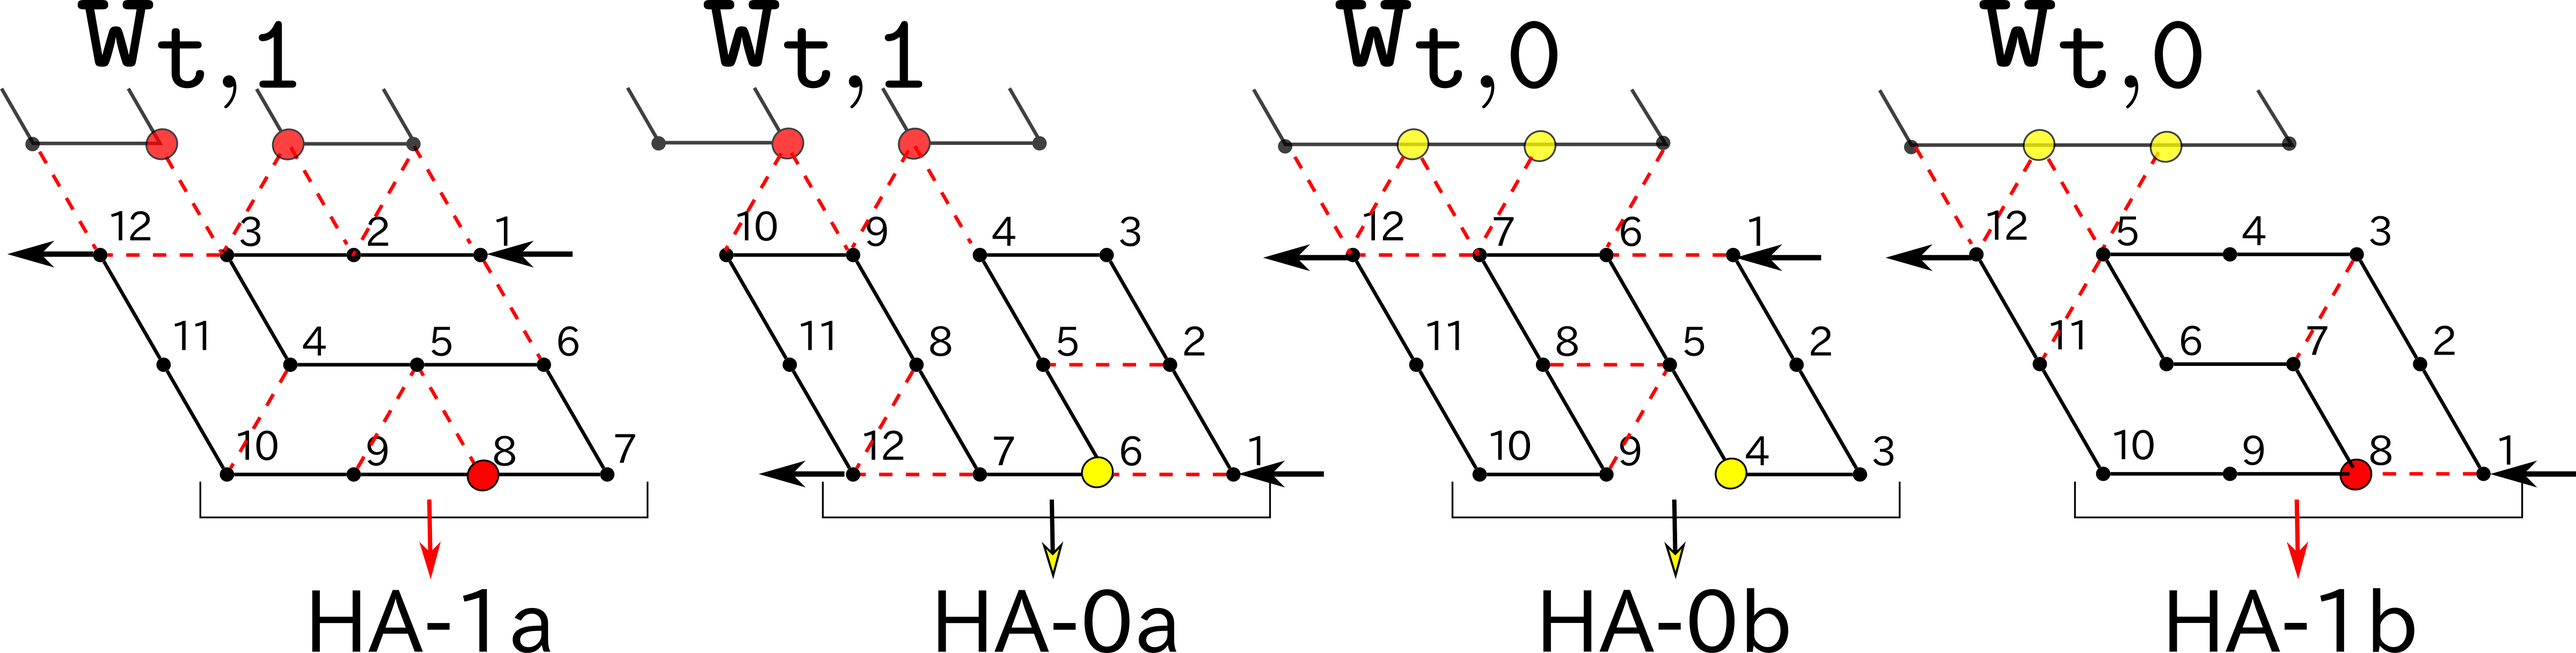
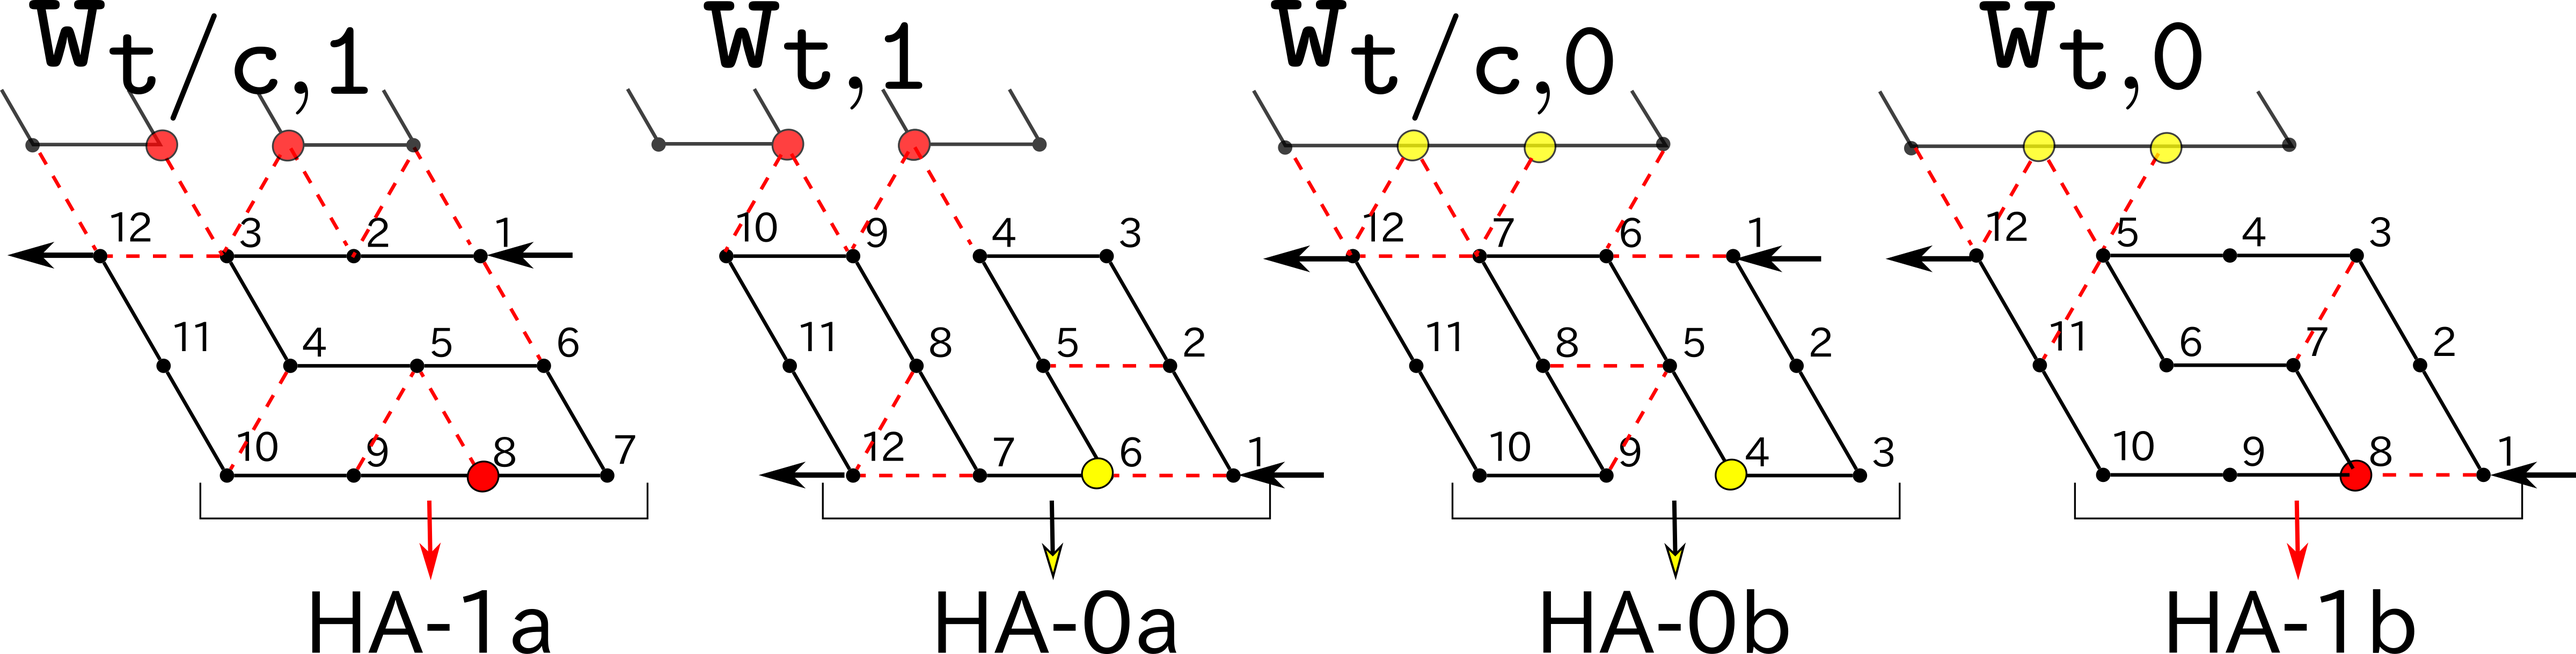
Commit before dinner
Appendix A is done more or less.

diff --git a/heighway_CIAA2018.tex b/heighway_CIAA2018.tex
@@ -754,13 +754,16 @@ As noted above, the counter module involves the four submodules: \texttt{Half-ad
 The sequences $\mathtt{w_{t, 1}}$ and $\mathtt{w_{c, 1}}$ encode the 1-bit input 1 to this half-adder and $\mathtt{w_{t, 0}}$ and $\mathtt{w_{c, 0}}$ encode 0. 
 Starting at the bottom and top is interpreted as being fed with carry and no-carry, respectively. 
 Among these eight environments, those two with $\mathtt{w_{c, 0}}$/$\mathtt{w_{c, 1}}$ and carry are never encountered because only the first zig can be fed with carry and the count $i$ they read is given by the seed or the previous turning module, and hence, in the format \eqref{eq:turner_output}. 
-The brick automata in Figs.~\ref{fig:BA_counter_nc_seed}, \ref{fig:BA_counter_c}, and \ref{fig:BA_counter_nc} guarantee that \texttt{HA} never encounter any other environment. 
+The brick automata in Figs.~\ref{fig:BA_counter_nc_seed}, \ref{fig:BA_counter_c}, and \ref{fig:BA_counter_nc} guarantee that \texttt{HA} never encounter any other environment, either. 
 
 \paragraph{Left- and Right-turner} always fold into one brick so that we omit their figures. 
 Moreover, their bricks end at the top. 
-This means, in particular, that \texttt{Right-turner} never feeds carry to the succeeding zig, that is, any zig but the first of a counter module is capable of incrementing the count $i$. 
+This means, in particular, that \texttt{Right-turner} never feeds carry to the succeeding zig, that is, no zig but the first one of each counter module is capable of incrementing the count $i$. 
 
-\paragraph{Formatter} (Fig.~\ref{fig:formatter}) 
+\paragraph{Formatter} (Fig.~\ref{fig:formatter}) encounters the four environments depending on the input above: \texttt{HA-0a}, \texttt{HA-0b}, \texttt{HA-1a}, and \texttt{HA-1b}. 
+Since \texttt{Left-turner} always ends at the top and spaces always start and end at the top, \texttt{Formatter} never encounters any other environment (see the brick automaton in Fig.~\ref{fig:BA_counter_zag}). 
+\texttt{Formatter} folds as in Fig.~\ref{fig:formatter} (left) and exposes $\mathtt{w_{c, 0}}$ below if \texttt{HA-0a} or \texttt{HA-0b} is given, or it folds as in Fig.~\ref{fig:formatter} (right) and exposes $\mathtt{w_{c, 1}}$ below if \texttt{HA-1a} or \texttt{HA-1b} is given. 
+As a result, the count $i$ is now encoded in the format \eqref{eq:counter_output}, which can be read by the succeeding zig. 
 
 %--------------------------------------------------------------------------------------------------------
 	\subsection{Bricks for Counter module}
